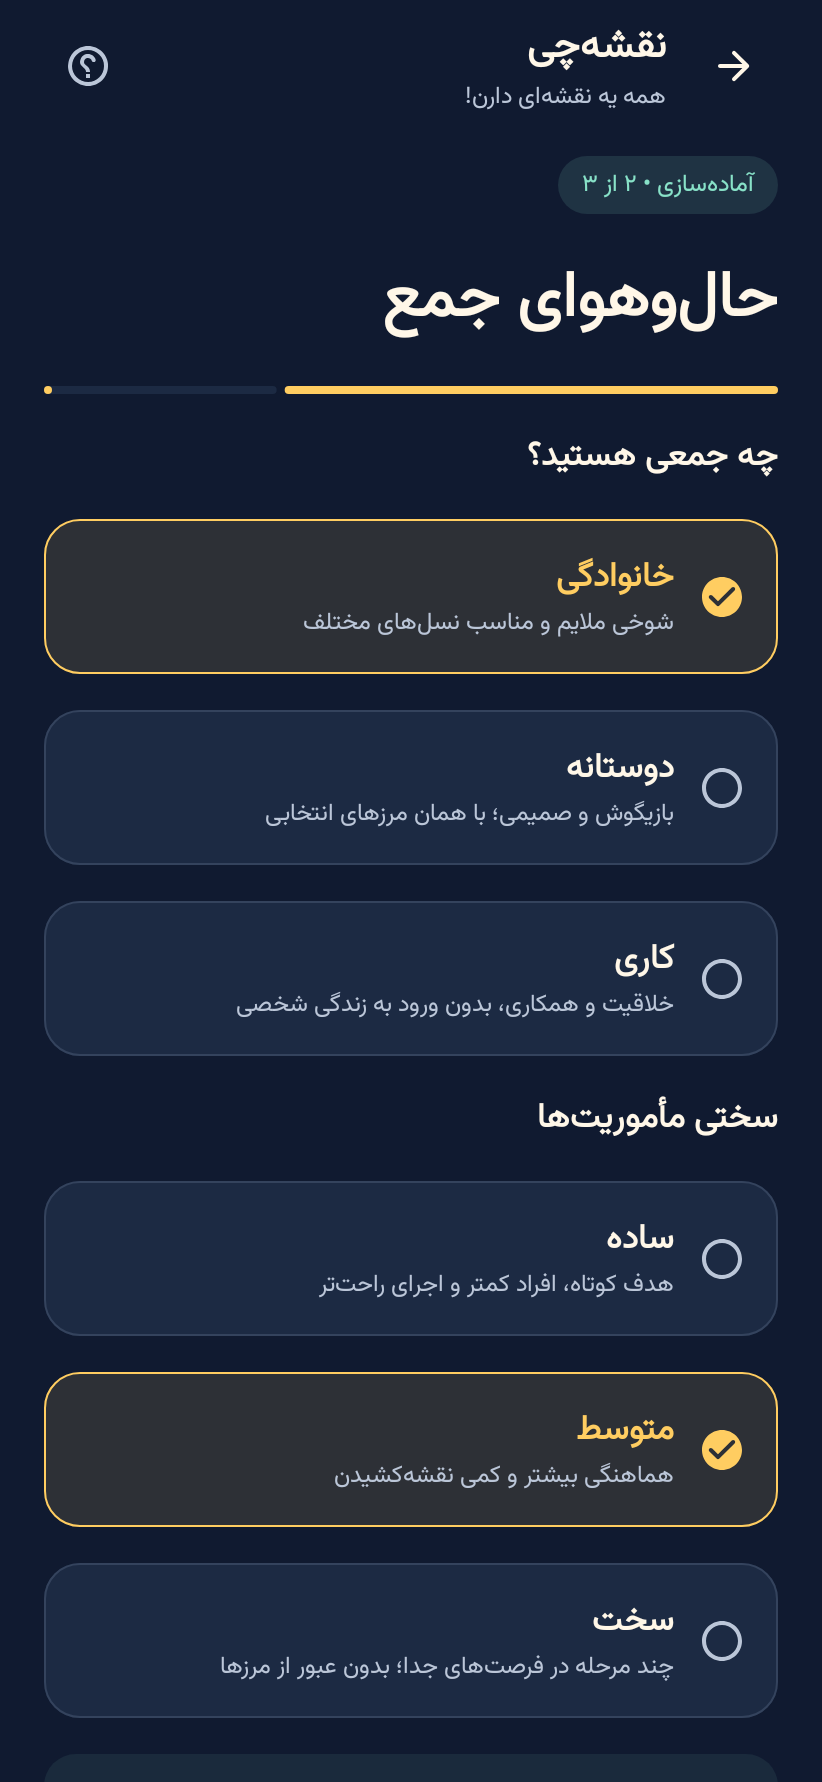
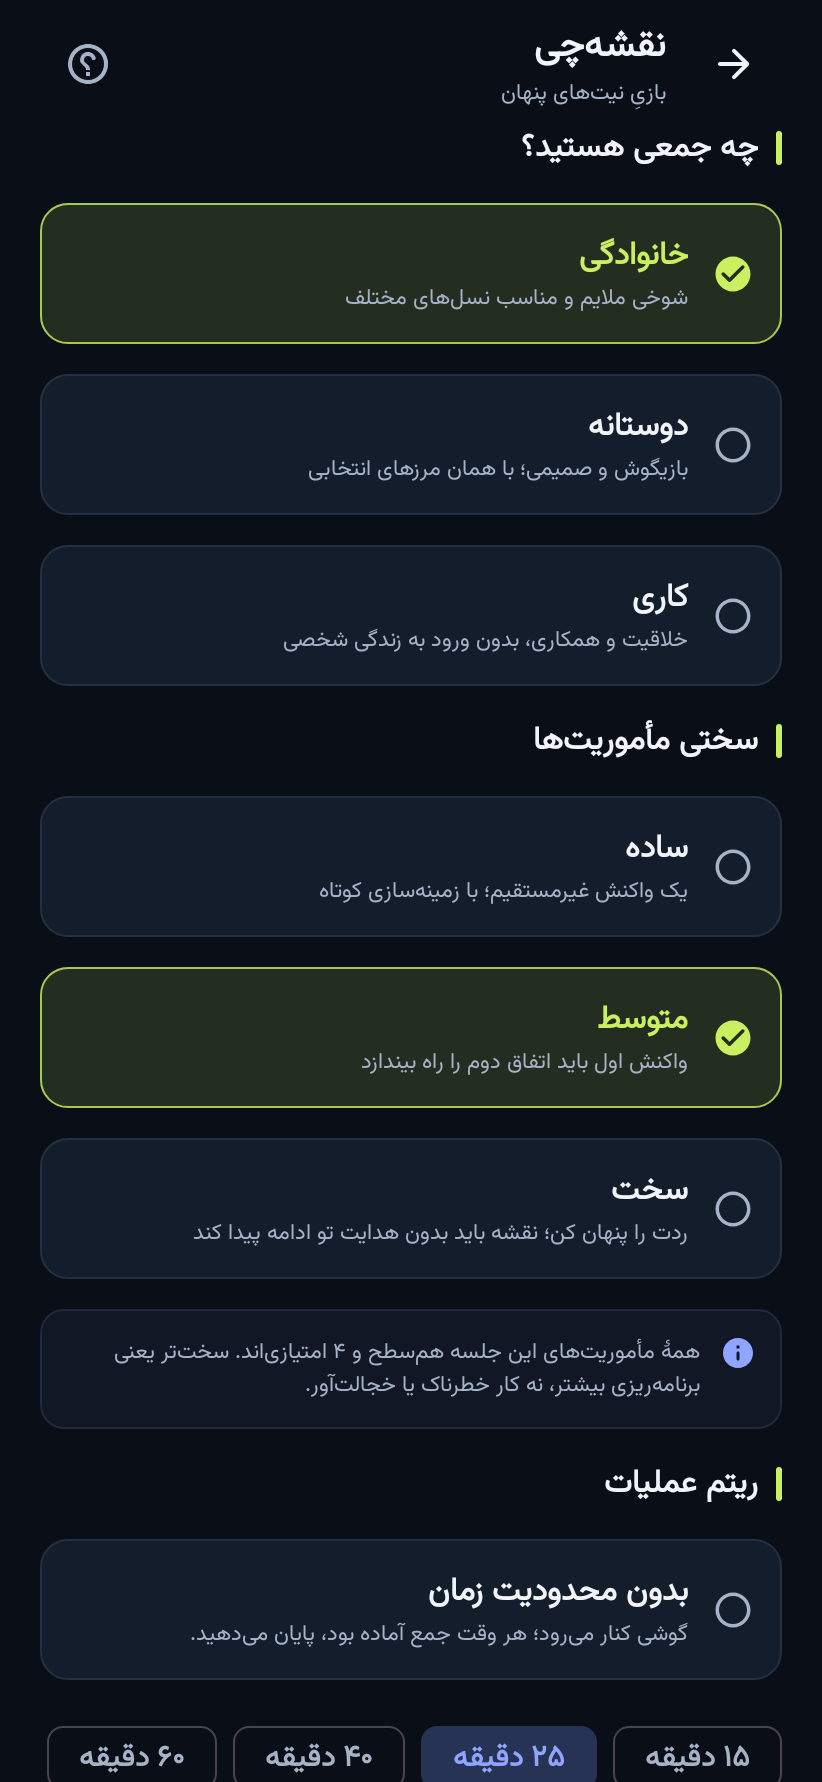
docs: replace gallery with redesigned UI and verify launcher artwork

diff --git a/app/src/test/java/ir/naghshechi/app/UiFlowTest.kt b/app/src/test/java/ir/naghshechi/app/UiFlowTest.kt
@@ -43,7 +43,7 @@ class UiFlowTest {
     }
     private fun launcherIcon(){
         ui.runOnIdle{
-            val icon=ui.activity.packageManager.getApplicationIcon(ui.activity.applicationInfo)
+            val icon=requireNotNull(ui.activity.getDrawable(R.mipmap.ic_launcher))
             val bitmap=Bitmap.createBitmap(384,384,Bitmap.Config.ARGB_8888)
             icon.setBounds(0,0,384,384);icon.draw(Canvas(bitmap))
             File("build/reports/screenshots").mkdirs()

diff --git a/README.md b/README.md
@@ -5,19 +5,19 @@
 <br />
 
 [![Android build](https://github.com/maboox/Planer/actions/workflows/android.yml/badge.svg)](https://github.com/maboox/Planer/actions/workflows/android.yml)
-![Android](https://img.shields.io/badge/Android-8%2B-88e2c8?style=flat-square&logo=android&logoColor=101a30)
-![Language](https://img.shields.io/badge/فارسی-RTL-ffcd61?style=flat-square)
-![Offline](https://img.shields.io/badge/بازی-آفلاین-88e2c8?style=flat-square)
-![AI](https://img.shields.io/badge/AI-اختیاری-ffcd61?style=flat-square)
+![Android](https://img.shields.io/badge/Android-8%2B-90a5ff?style=flat-square&logo=android&logoColor=090e17)
+![Language](https://img.shields.io/badge/فارسی-RTL-caef60?style=flat-square)
+![Offline](https://img.shields.io/badge/بازی-آفلاین-90a5ff?style=flat-square)
+![AI](https://img.shields.io/badge/AI-اختیاری-caef60?style=flat-square)
 
 ### طبیعی باش. مشکوک بازی کن.
 
 یک گوشی، یک جمع و هدفهایی که کسی نباید بفهمد. خودِ مهمانی، زمین بازی است.
 
 <p>
-<a href="https://github.com/maboox/Planer/releases/download/preview/naghshechi-preview.apk"><img alt="دریافت نسخه آزمایشی" src="https://img.shields.io/badge/دریافت_APK-نسخهٔ_آزمایشی-ffcd61?style=for-the-badge&logo=android&logoColor=101a30" /></a>
-<a href="docs/GAME_RULES.fa.md"><img alt="راهنمای بازی" src="https://img.shields.io/badge/قواعد-راهنمای_بازی-1c2a43?style=for-the-badge" /></a>
-<a href="https://github.com/maboox/Planer/issues/new/choose"><img alt="گزارش مشکل" src="https://img.shields.io/badge/همکاری-گزارش_مشکل-1c2a43?style=for-the-badge" /></a>
+<a href="https://github.com/maboox/Planer/releases/download/preview/naghshechi-preview.apk"><img alt="دریافت نسخه آزمایشی" src="https://img.shields.io/badge/دریافت_APK-نسخهٔ_آزمایشی-caef60?style=for-the-badge&logo=android&logoColor=090e17" /></a>
+<a href="docs/GAME_RULES.fa.md"><img alt="راهنمای بازی" src="https://img.shields.io/badge/قواعد-راهنمای_بازی-141d2b?style=for-the-badge" /></a>
+<a href="https://github.com/maboox/Planer/issues/new/choose"><img alt="گزارش مشکل" src="https://img.shields.io/badge/همکاری-گزارش_مشکل-141d2b?style=for-the-badge" /></a>
 </p>
 
 **نسخهٔ اولیهٔ قابلآزمایش؛ آمادهٔ انتشار عمومی بازار محسوب نمیشود.**
@@ -67,7 +67,7 @@
 
 در سطح سخت، ایده ممکن است از واسطه عبور کند یا بعد از تغییر موضوع برگردد. سختی صرفاً با زیادکردن تعداد افراد ساخته نشده است. [معیار طراحی محتوا](docs/CONTENT_DESIGN.fa.md)
 <p align="center">
-  <img src="docs/screenshots/timer.png" width="240" alt="زمان عملیات" />
+  <img src="docs/screenshots/untimed.png" width="240" alt="عملیات بدون زمان" />
   <img src="docs/screenshots/reveal.png" width="240" alt="افشای مأموریت" />
   <img src="docs/screenshots/results.png" width="240" alt="نتیجه و جدول" />
 </p>
@@ -86,7 +86,7 @@
 
 پیشنیازها: JDK 17، Android SDK 36 و دسترسی به Google Maven و Maven Central. Gradle Wrapper با checksum در مخزن است.
 
-با هر پوش روی `main`، GitHub Actions تست، بررسی اندروید و ساخت را اجرا میکند. پس از موفقیت، APK در بخش **Actions → naghshechi-preview** و صفحهٔ **Releases → preview** قرار میگیرد. بستهٔ آزمایشی شناسهٔ جدا و امضای توسعه دارد؛ تغییر امضای ساختهای آزمایشی ممکن است نیاز به حذف و نصب مجدد داشته باشد. پیش از آن پشتیبان بگیر.
+با هر تغییر کد روی `main`، GitHub Actions تست، بررسی اندروید و ساخت را اجرا میکند. پس از موفقیت، APK در بخش **Actions → naghshechi-preview** و صفحهٔ **Releases → preview** قرار میگیرد. بستهٔ آزمایشی شناسهٔ جدا و امضای توسعه دارد؛ تغییر امضای ساختهای آزمایشی ممکن است نیاز به حذف و نصب مجدد داشته باشد. پیش از آن پشتیبان بگیر.
 
 نسخهٔ انتشار با تگ `v*` فقط پس از تنظیم کلید امضای خصوصی ساخته میشود. [راهنمای انتشار](docs/BUILDING.md)
 

diff --git a/docs/VERIFICATION.md b/docs/VERIFICATION.md
@@ -1,18 +1,18 @@
-# بررسی نسخهٔ اولیه
+# بررسی نسخهٔ ۰٫۲ — بازطراحی
 
 تاریخ: ۴ آبان ۱۴۰۵ / 2026-10-26  
-کد بررسیشده: `3e5ecede773bdccff3504abb7ecc16cef0c13f20`
+کد اجرایی بررسیشده: `3f3125941931be0d35adccd3e795aad15930d5ad`
 
 ## نتیجه
 
 | بررسی | نتیجه |
 |---|---|
-| تست قواعد، محتوا، حدس، امتیاز، زمان، پشتیبان و حریم خصوصی درخواست | ۱۴ تست موفق |
+| تست قواعد، محتوا، حدس، امتیاز، زمان، پشتیبان و حریم خصوصی درخواست | ۱۷ تست موفق؛ شامل منع محتوای قدیمی، اجازهٔ عکس و حالت بدون زمان |
 | پاسخ موفق و خطای API، پاسخ ناقص و بزرگ، عدم ارسال اسم واقعی | ۴ تست موفق با پاسخ شبیهسازیشده |
-| مسیر کامل رابط از جمع تا ذخیرهٔ نتیجه، بازسازی Activity و صفحهٔ کوچک | ۲ تست موفق |
+| مسیر کامل رابط، بازسازی Activity، صفحهٔ کوچک و عملیات بدون زمان | ۳ تست موفق |
 | Android lint، debug و release | بدون خطا؛ دو هشدار نسخهای بررسیشده |
 | ساخت APK آزمایشی و release بدون امضای انتشار | موفق |
-| ساخت خودکار گیتهاب و انتشار preview | [موفق](https://github.com/maboox/Planer/actions/runs/40294063933) |
+| ساخت خودکار گیتهاب و انتشار preview | [موفق](https://github.com/maboox/Planer/actions/runs/40304612927) |
 | اسکن منابع برای کلید و اطلاعات محرمانه با Gitleaks | موردی پیدا نشد |
 | بررسی ۸۹ وابستگی اجرایی Maven با OSV | آسیبپذیری گزارششدهای برای نسخههای بررسیشده برنگشت |
 
@@ -21,6 +21,8 @@
 تصاویر `screenshots/` از خود Compose با Robolectric native graphics و Android API 35 گرفته شدهاند. اندازهٔ اصلی ۴۱۱×۸۹۱ dp است؛ آزمون جداگانه دسترسی به اقدامات در ۳۲۰×۶۴۰ dp را بررسی میکند. تصاویر با ابزار مشاهدهٔ تصویر باز و خوانایی، جهت متن و کنترلهای اصلی بررسی شدهاند.
 
 آزمون کامل، مأموریت را باز میکند، Activity را بازسازی میکند، حفظ همان مأموریت و پوشیدهبودن دوبارهٔ آن را بررسی میکند، دور را تمام میکند، انتخاب همه را ثبت میکند، کارتها را افشا و نتیجه را ذخیره میکند. برد مشترک و ذخیرهٔ یکبارهٔ نتیجه نیز بررسی میشود.
+
+آزمون جداگانهٔ بدون زمان، نبود شمارش معکوس و باقیماندن بازی تا پایان دستی را بررسی میکند. آیکن از منبع واقعی `mipmap/ic_launcher` رندر شده است، نه تصویر پیشفرض شبیهساز.
 
 ## هشدارهای باقیمانده
 

diff --git a/docs/BUILDING.md b/docs/BUILDING.md
@@ -17,7 +17,7 @@ The wrapper ZIP checksum is pinned. The wrapper JAR is checked by the Gradle set
 
 ## GitHub Actions
 
-`Android • build & verify` runs on main pushes, PRs and manual dispatch. It builds a preview APK, checks release compilation, runs JVM/Compose tests and Android lint, and uploads reports. A successful main push updates the prerelease `preview` download. PR jobs receive no signing secrets. The preview publisher is a separate job with repository-write permission.
+`Android • build & verify` runs on main code pushes, PRs and manual dispatch. Documentation-only pushes skip rebuilding; the existing verified preview stays available. It builds a preview APK, checks release compilation, runs JVM/Compose tests and Android lint, and uploads reports. A successful main push updates the prerelease `preview` download. PR jobs receive no signing secrets. The preview publisher is a separate job with repository-write permission.
 
 UI PNGs in `app/build/reports/screenshots` are rendered by the actual Compose UI under Robolectric native graphics. They are useful layout evidence, not a substitute for testing a real device. Store curated copies in `docs/screenshots` after visual inspection.
 

diff --git a/THIRD_PARTY_NOTICES.md b/THIRD_PARTY_NOTICES.md
@@ -14,4 +14,4 @@ The application uses maintained libraries and a licensed icon set rather than re
 
 Copies of Apache-2.0 and the font's original OFL notice are in `licenses/` and included in app assets. `runtimeInventory` outputs resolved runtime coordinates for auditing. This table lists direct components; review the generated inventory before a store release, including transitive components and their embedded notices.
 
-Banner and launcher envelope artwork are original project vectors. App screenshots are generated from the app; they contain fictional sample participants. Remote README badges are served by Shields.io and are not used by the Android app.
+Banner and launcher spy-mask artwork are original project vectors. App screenshots are generated from the app; they contain fictional sample participants. Remote README badges are served by Shields.io and are not used by the Android app.
